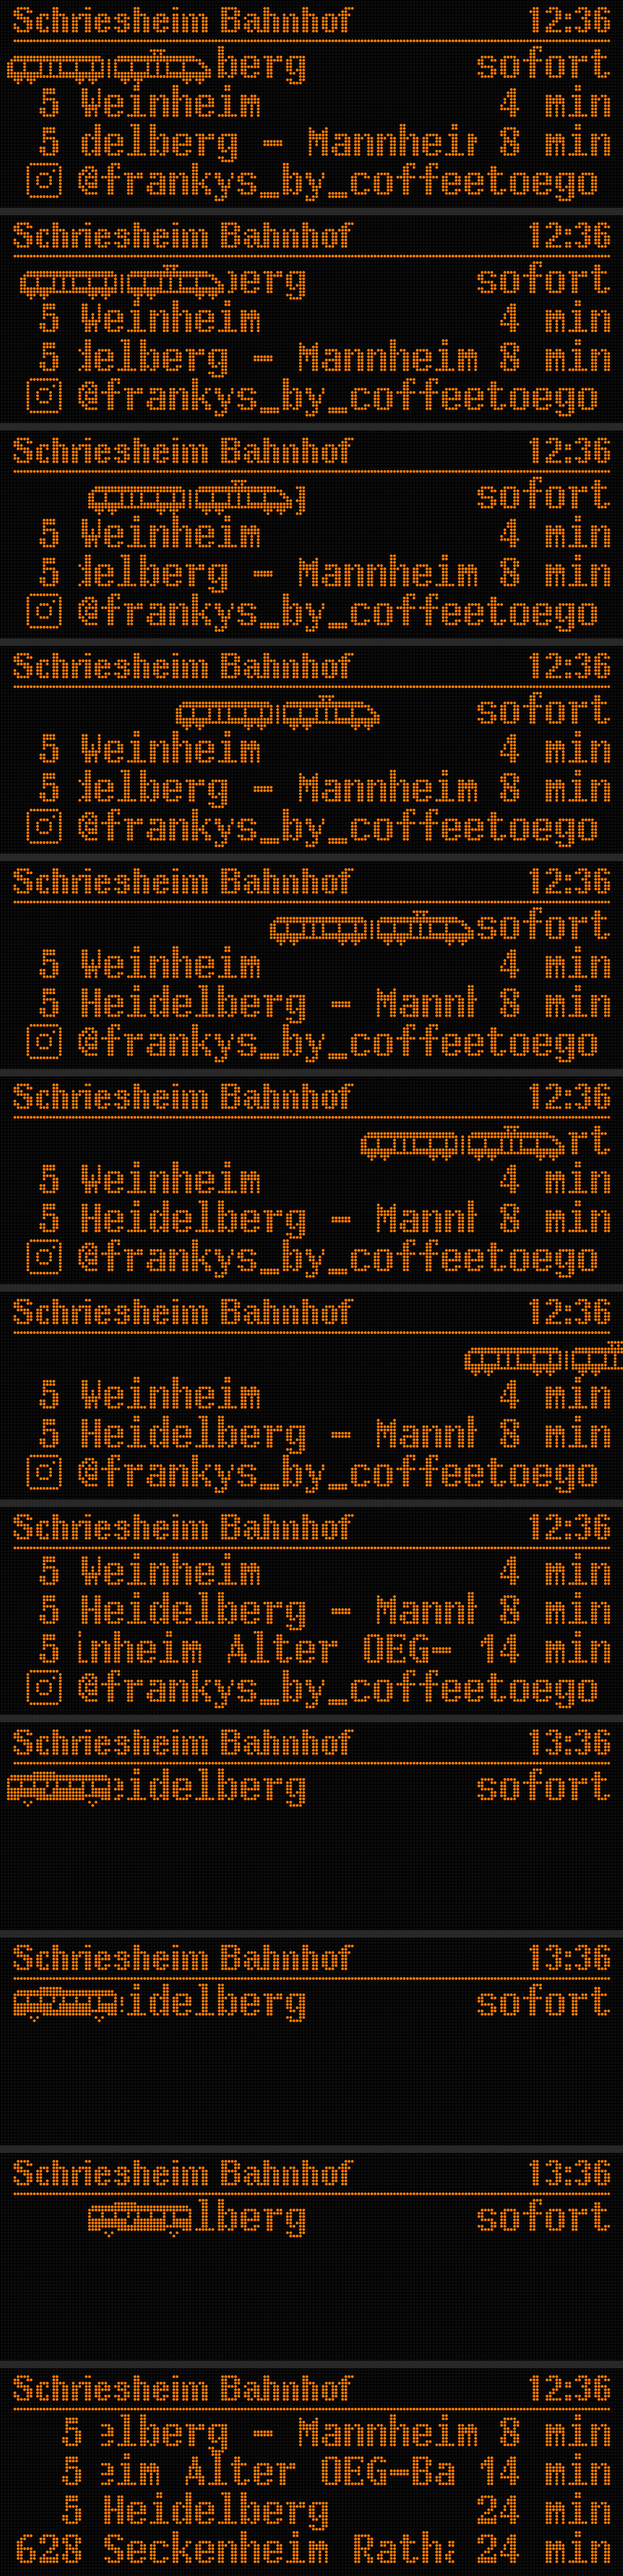
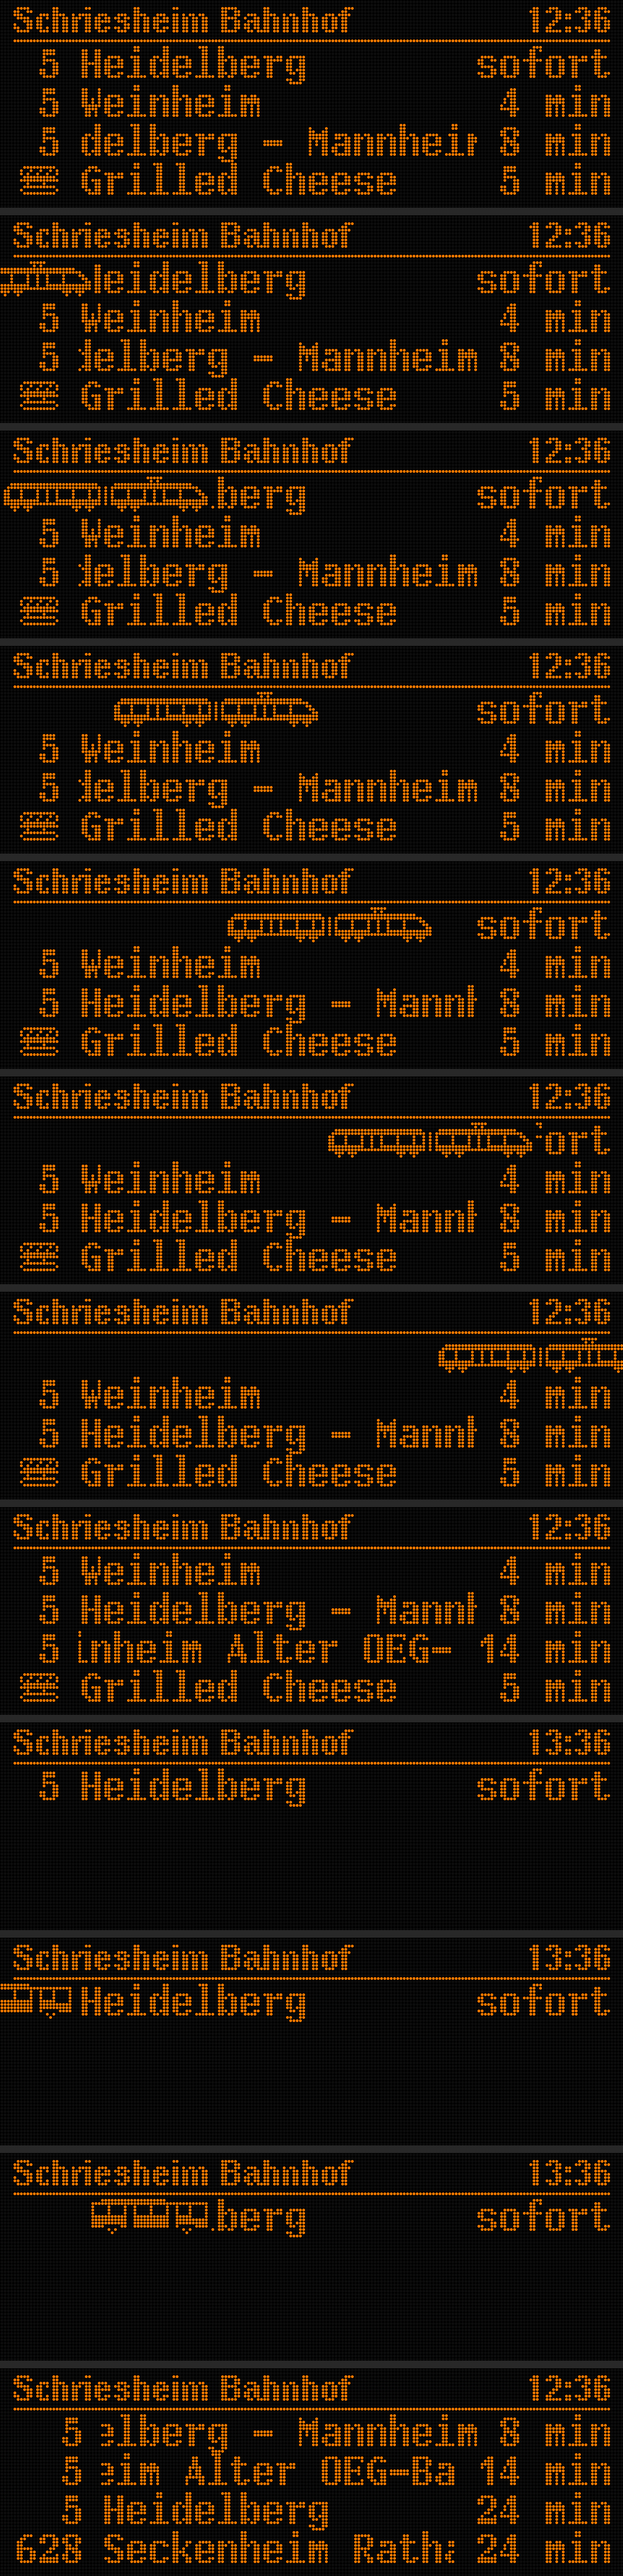
Eckiger Bus, Fahrzeuge rollen ein, Gleis auch bei Ausfall
- Bus als kastenförmiger Stadtbus (Klimaanlage, zwei Türen, flache Front).
- Bahn und Bus fahren 1 px höher, rollen langsam von links herein und
  beschleunigen, statt am Rand zu erscheinen.
- Ausgefallene Fahrten zeigen in der Gleis-Phase ihr Gleis.

diff --git a/src/depart_anim.cpp b/src/depart_anim.cpp
@@ -23,18 +23,19 @@ static const char* const TRAM[VEH_H] = {
     "...#...#..............#...#.........#...#..............#...#...",
 };
 
+// Boxy European city bus: flat roof with AC unit, two doors, flat front.
 static const char* const BUS[VEH_H] = {
-    "........#######.................",
-    ".##############################.",
-    "################################",
-    "#...#...#...#..#...#...#..#....#",
-    "#...#...#...#..#...#...#..#....#",
-    "############..##########..######",
-    "############..##########..######",
-    "################################",
-    "####.....###############.....###",
-    ".....#.#.................#.#....",
-    "......#...................#.....",
+    "...####################.............",
+    "####################################",
+    "#....#....#..#....#....#..#...#....#",
+    "#....#....#..#....#....#..#...#....#",
+    "#....#....#..#....#....#..#...#....#",
+    "###########..###########..#####....#",
+    "###########..###########..##########",
+    "###########..###########..##########",
+    "####.....##..###########..#.....####",
+    ".....#.#....................#.#.....",
+    "......#......................#......",
 };
 
 static void drawSprite(Adafruit_GFX& g, uint16_t color, const char* const* rows, int h, int x,
@@ -48,25 +49,25 @@ static void drawSprite(Adafruit_GFX& g, uint16_t color, const char* const* rows,
 }
 
 // ---- Timeline (ms) ---------------------------------------------------------
-// Vehicle: stands at the left edge for a moment (doors closing), then pulls
-// away smoothly and accelerates out of the display.
-static const int VEH_X0 = 2;
-static const uint32_t VEH_HOLD = 600;
-static const int VEH_ACCEL = 26;  // px/s^2
+// Vehicle: rolls in slowly from beyond the left edge and keeps accelerating
+// until it has left the display (the tram, 63 px, just makes it in
+// DEPART_ANIM_MS: 63 + 192 px).
+static const int VEH_V0 = 12;     // px/s when its front appears
+static const int VEH_ACCEL = 20;  // px/s^2
 
-static int vehicleX(uint32_t t) {
-  if (t < VEH_HOLD) return VEH_X0;
-  int64_t dt = t - VEH_HOLD;
-  return VEH_X0 + (int)((int64_t)VEH_ACCEL * dt * dt / 2000000);
+// Left edge of a `vehW` px wide vehicle at `t` ms.
+static int vehicleX(uint32_t t, int vehW) {
+  int64_t dt = t;
+  return -vehW + (int)((VEH_V0 * dt * 1000 + (int64_t)VEH_ACCEL * dt * dt / 2) / 1000000);
 }
 
 void drawDepartAnim(Adafruit_GFX& g, uint16_t color, bool tram, uint32_t t, int top, int bottom,
                     int width) {
   const char* const* veh = tram ? TRAM : BUS;
   int vehW = (int)strlen(veh[0]);
-  int vx = vehicleX(t);
+  int vx = vehicleX(t, vehW);
 
   int clearTo = vx + vehW + 1 < width ? vx + vehW + 1 : width;  // 1px gap to the text
-  g.fillRect(0, top, clearTo, bottom - top + 1, 0);
-  if (vx < width) drawSprite(g, color, veh, VEH_H, vx, bottom, top);
+  if (clearTo > 0) g.fillRect(0, top, clearTo, bottom - top + 1, 0);
+  if (vx < width) drawSprite(g, color, veh, VEH_H, vx, bottom - 1, top);  // 1px above the baseline
 }

diff --git a/src/render.cpp b/src/render.cpp
@@ -466,14 +466,14 @@ void renderFrame(Adafruit_GFX& g, U8G2_FOR_ADAFRUIT_GFX& u8, uint16_t color, con
   PromoDep promoDep;
   bool promoIsDep = promoMsg && !showDisruption && splitPromoDep(promoMsg, promoDep);
 
-  // Now and then the time column shows the platforms instead (not for
-  // cancelled trips or without a platform)
+  // Now and then the time column shows the platforms instead (also for
+  // cancelled trips, not without a platform)
   const uint32_t platformEveryMs = PLATFORM_EVERY_S * 1000UL;
   bool platformPhase = platformEveryMs > 0 &&
                        ms % (platformEveryMs ? platformEveryMs : 1) >= platformEveryMs - PLATFORM_SHOW_S * 1000UL;
   bool showPlatforms = false;
   for (int i = 0; i < n && platformPhase; i++)
-    showPlatforms |= !rows[i]->cancelled && rows[i]->platformLabel[0];
+    showPlatforms |= rows[i]->platformLabel[0] != 0;
 
   if (n == 0) {
     int mid = (RULE_Y + (tickerMsg || showDisruption ? rowBase(MAX_ROWS) - ROW_ASCENT : H)) / 2;
@@ -504,7 +504,7 @@ void renderFrame(Adafruit_GFX& g, U8G2_FOR_ADAFRUIT_GFX& u8, uint16_t color, con
       rightX[i] = W - MARGIN_X - width(u8, right[i]);
       // the destination keeps the width it has next to the countdown
       destEnd[i] = rightX[i] - COL_GAP;
-      if (showPlatforms && !rows[i]->cancelled && rows[i]->platformLabel[0]) {
+      if (showPlatforms && rows[i]->platformLabel[0]) {
         snprintf(right[i], sizeof(right[i]), "%s", rows[i]->platformLabel);
         int x = (platformCenter2 - inkCenter2(g, u8, right[i])) / 2;
         int maxX = W - MARGIN_X - width(u8, right[i]);  // a long label stays on the board

diff --git a/tools/preview/preview.cpp b/tools/preview/preview.cpp
@@ -109,6 +109,7 @@ int main(int argc, char** argv) {
   Board mixed = normal;  // labels of different glyph widths must line up
   const char* labels[] = {"A", "1", "B", "2"};
   for (int i = 0; i < 4; i++) strcpy(mixed.deps[i].platformLabel, labels[i]);
+  mixed.deps[1].cancelled = true;  // still shows its platform
   frames.push_back(render(mixed, ok, now, PLATFORM_EVERY_S * 1000 - 1));
 
   // long destination: start, mid-scroll, end

diff --git a/include/config.h b/include/config.h
@@ -28,7 +28,7 @@
 // PLATFORM_SHOW_S seconds, with PLATFORM_HEADER in place of the clock.
 // 0 = never. The VRN only sends short codes ("A", "B", "TrRiN"), rename them
 // with "platform|label" pairs; codes without a pair are shown as they are.
-#define PLATFORM_EVERY_S   60
+#define PLATFORM_EVERY_S   40
 #define PLATFORM_SHOW_S    10
 #define PLATFORM_HEADER    "Gleis"
 #define PLATFORM_LABELS    "TrRiS|1;End|2;TrRiN|3"
